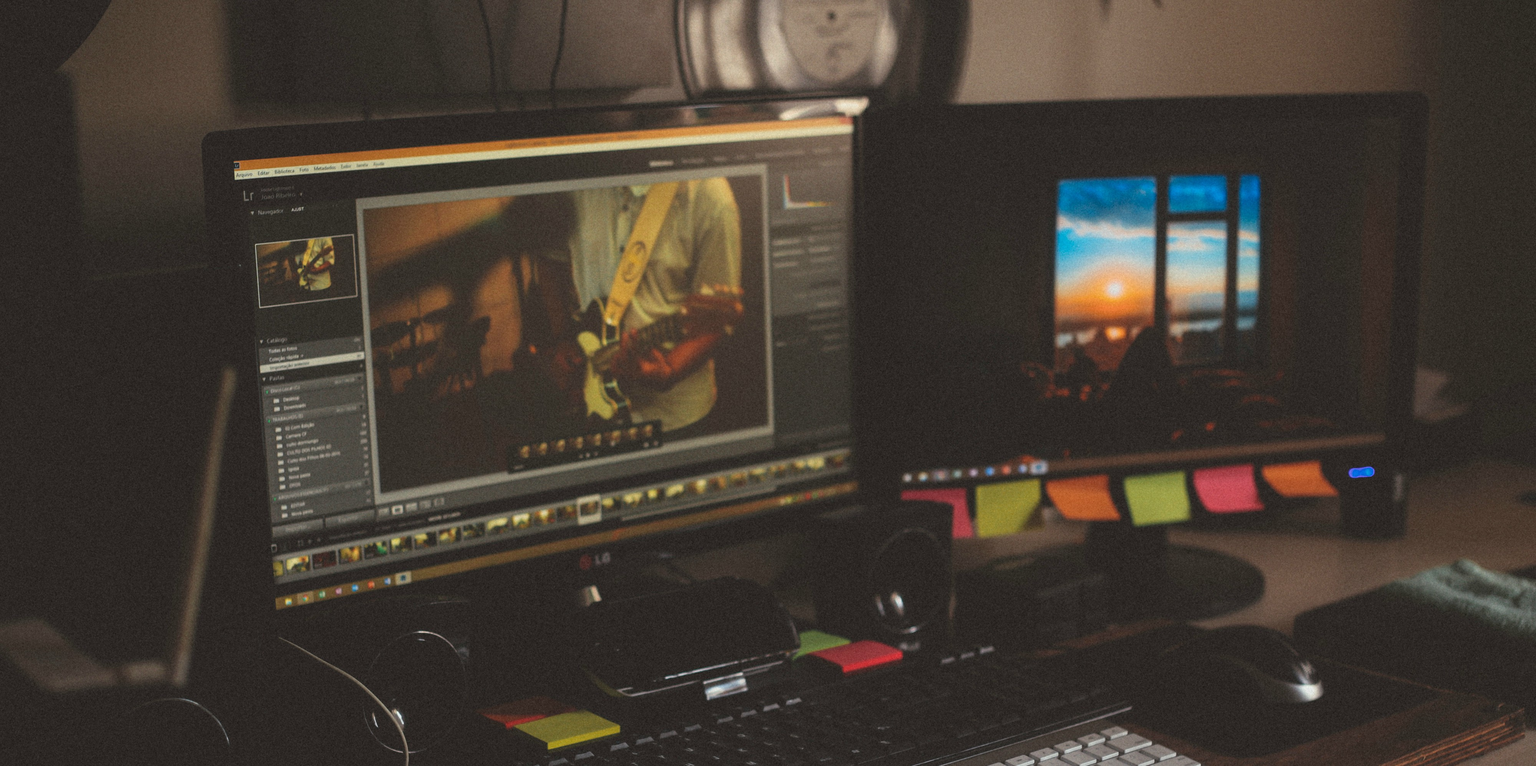
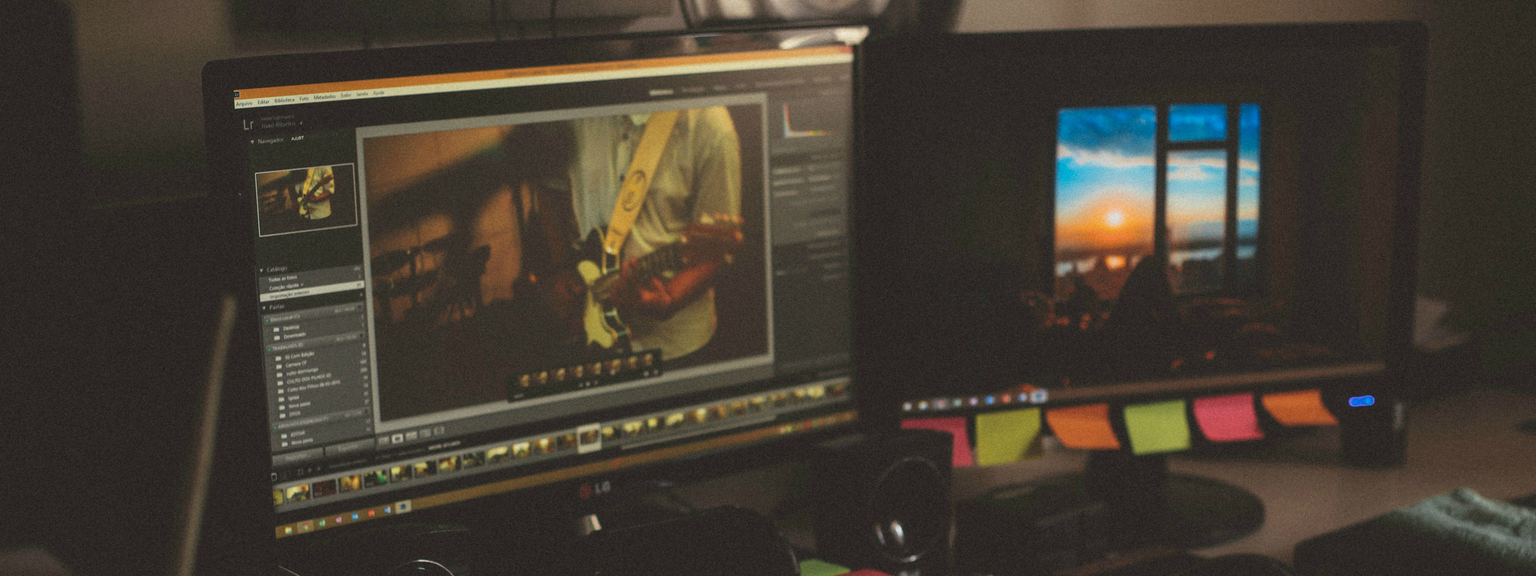
2b2t

diff --git a/index.html b/index.html
@@ -300,21 +300,21 @@
                             <div class="masonry-grid-item col-xs-12 col-sm-6 col-md-4 md-margin-b-4">
                                 <!-- Work -->
                                 <div class="work work-popup-trigger">
-                                    <div class="work-overlay vidpro">
-                                        <img class="full-width img-responsive" src="HTML/img/397x300/02.jpg" alt="Portfolio Image">
+                                    <div class="work-overlay" id="abackground">
+                                        <img class="full-width img-responsive stretch" src="HTML/img/397x300/02.jpg" alt="Portfolio Image">
                                     </div>
                                     <div class="work-popup-overlay">
                                         <div class="work-popup-content">
                                             <a href="javascript:void(0);" class="work-popup-close">Hide</a>
                                             <div class="margin-b-30">
-                                                <h3 class="margin-b-5">Art Of Coding</h3>
+                                                <h3 class="margin-b-5">Video Design &amp; Editing</h3>
                                                 <span>Clean &amp; Minimalistic Design</span>
                                             </div>
                                             <div class="row">
                                                 <div class="col-sm-8 work-popup-content-divider sm-margin-b-20">
                                                     <div class="margin-t-10 sm-margin-t-0">
-                                                        <p>Duis aute irure dolor in reprehenderit in voluptate velit esse cillum dolore eu fugiat nulla pariatur. Excepteur sint occaecat cupidatat non proident, sunt in culpa qui officia deserunt mollit anim id est laborum.</p>
-                                                        <p>Lorem ipsum dolor sit amet, consectetur adipisicing elit, sed do eiusmod tempor incididunt ut labore et dolore magna aliqua. Ut enim ad minim veniam, quis nostrud.</p>
+                                                        <p>I used to edit videos when life was easier in 2014-2015. I still do edit videos, but not for a channel, just for fun if I have footage to edit, I also am not in the school's video production, I am in the Jazz Band.</p>
+                                                        <p>If you want me to edit videos for you, message me and I will get to you.</p>
                                                         <ul class="list-inline work-popup-tag">
                                                             <li class="work-popup-tag-item"><a class="work-popup-tag-link" href="#">Design,</a></li>
                                                             <li class="work-popup-tag-item"><a class="work-popup-tag-link" href="#">Coding,</a></li>
@@ -324,10 +324,7 @@
                                                 </div>
                                                 <div class="col-sm-4">
                                                     <div class="margin-t-10 sm-margin-t-0">
-                                                        <p class="margin-b-5"><strong>Project Leader:</strong> John Doe</p>
-                                                        <p class="margin-b-5"><strong>Designer:</strong> Alisa Keys</p>
-                                                        <p class="margin-b-5"><strong>Developer:</strong> Mark Doe</p>
-                                                        <p class="margin-b-5"><strong>Customer:</strong> Keenthemes</p>
+                                                        <p class="margin-b-5"><strong>By:</strong> Elliott</p>
                                                     </div>
                                                 </div>
                                             </div>

diff --git a/HTML/css/layout.css b/HTML/css/layout.css
@@ -1962,3 +1962,16 @@ body.showOverlay .toggleOverlay {
   right: 30%;
   left: 30%;
   width: 40%; }
+
+#abackground {
+    width: 201%; 
+    height: 200%;  
+    left: -250px; 
+    top: 0px; 
+    z-index: 0; /* Ensure div tag stays behind content; -999 might work, too. */
+}
+
+.stretch {
+    width:220%;
+    height:200%;
+}
